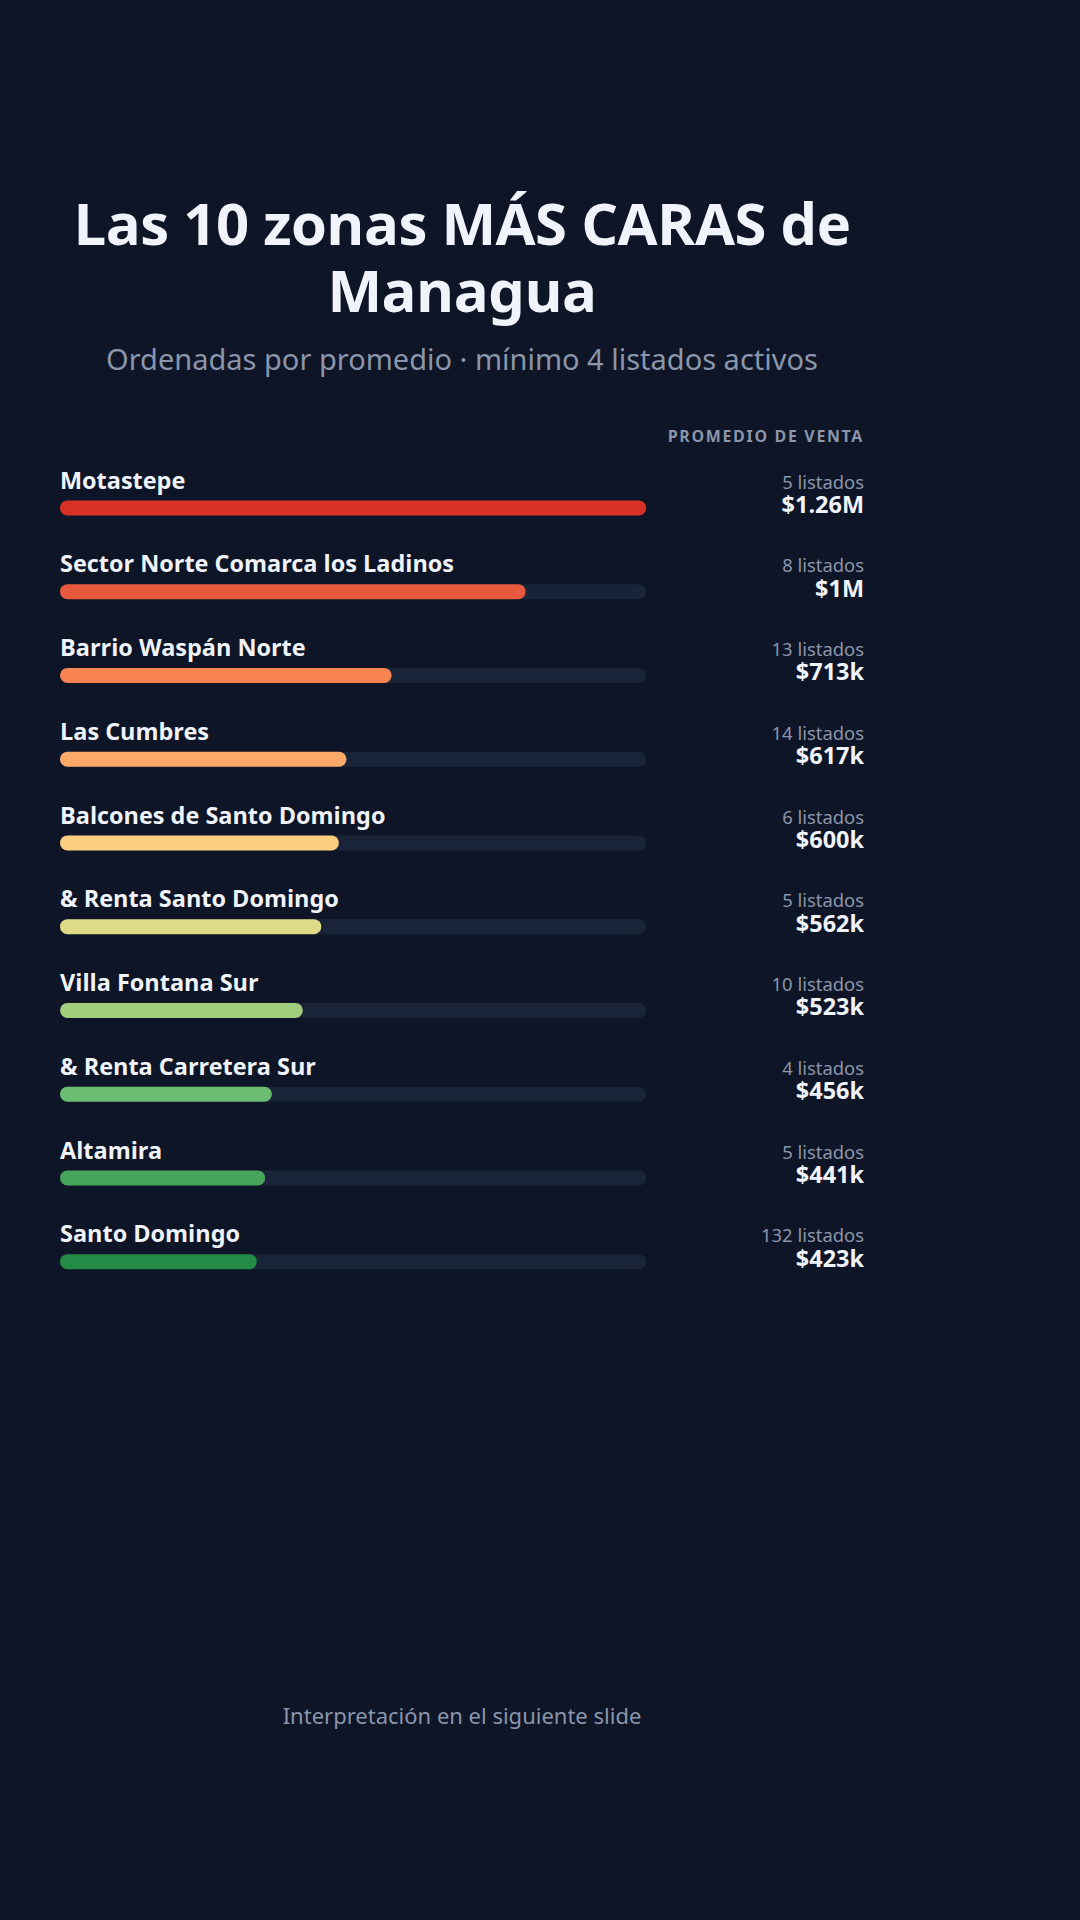
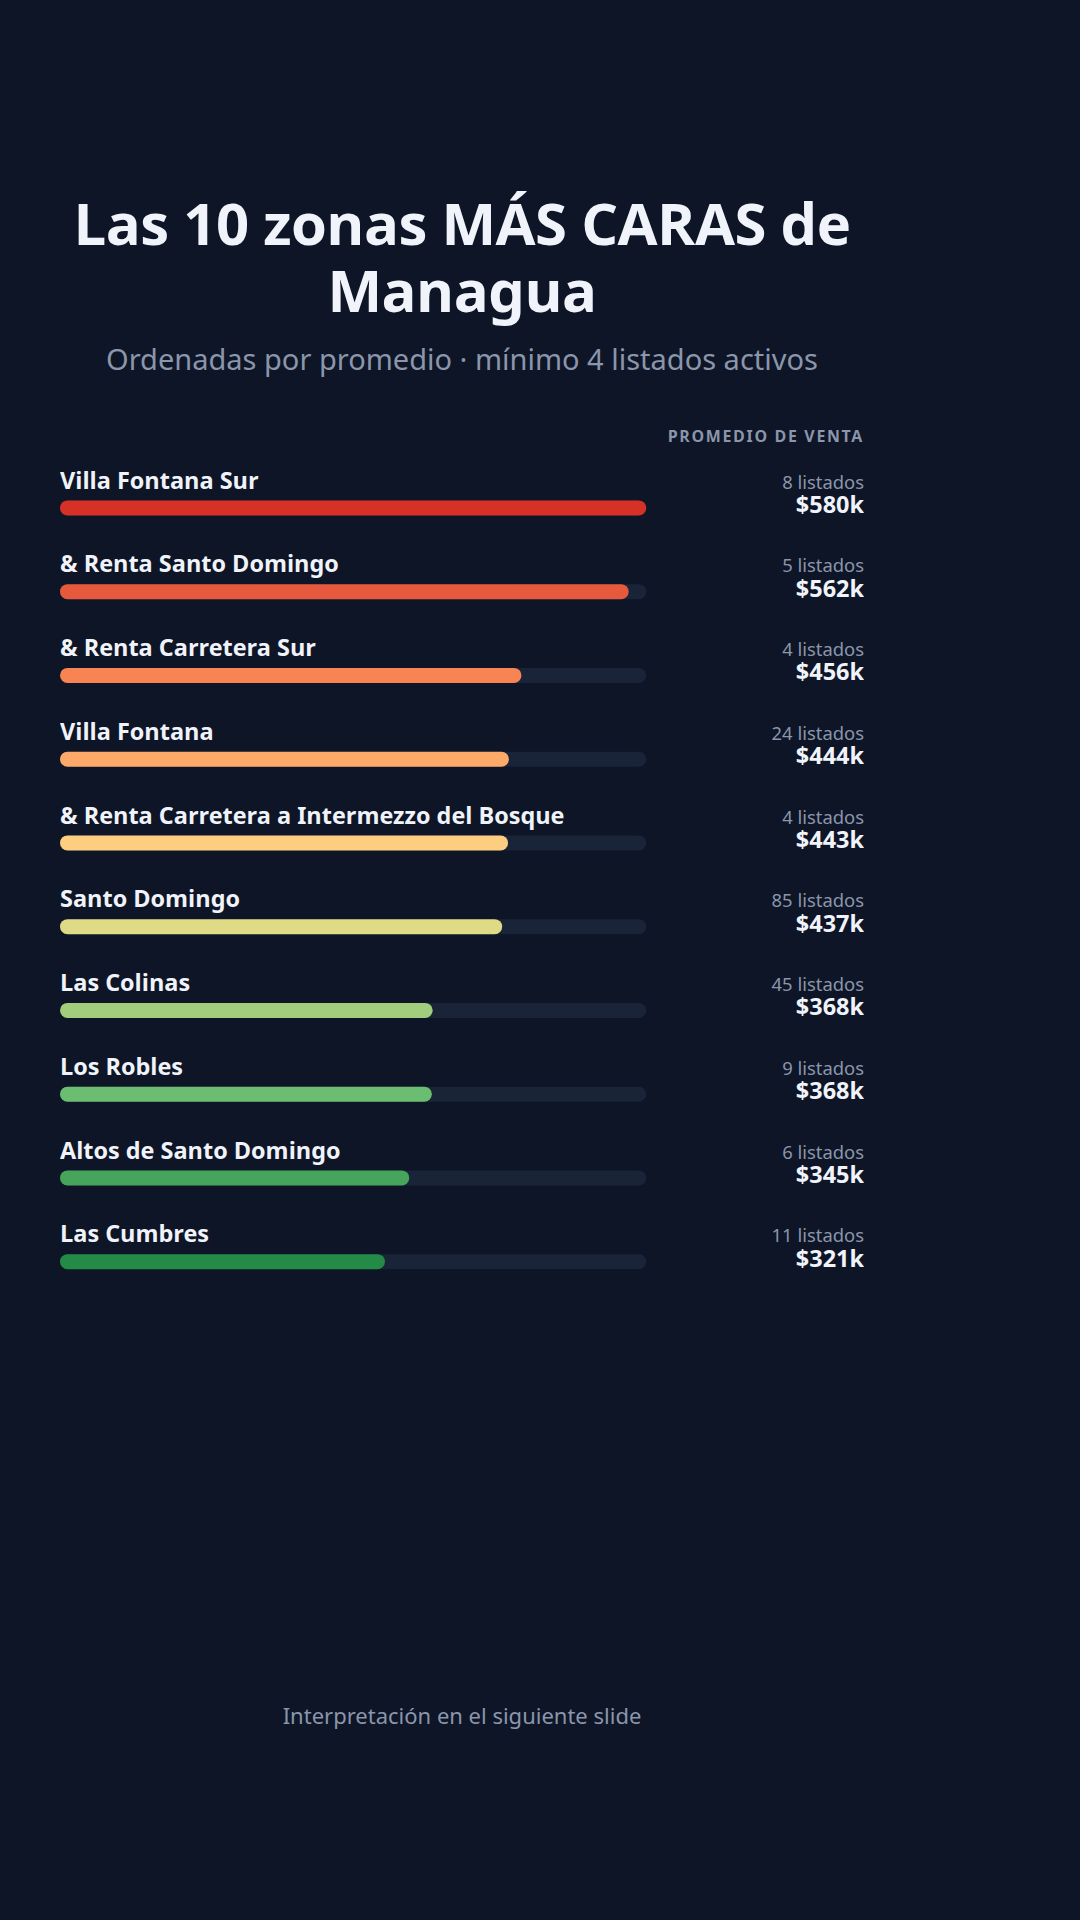
Regenera slides solo con casas (868 únicas) vía clasificador compartido; metodología actualizada

diff --git a/generar_datos.py b/generar_datos.py
@@ -7,7 +7,6 @@ import csv
 import datetime
 import json
 import os
-import re
 import shutil
 import statistics
 import sys
@@ -16,67 +15,10 @@ REPO = os.path.dirname(os.path.abspath(__file__))
 ANALISIS = "/home/devni/analisis bienes raices"
 sys.path.insert(0, ANALISIS)
 
+from clasificador_casas import kw_es_casa, qc_es_casa, mb_es_casa, sv_es_casa
+
 MANAGUA_OK = {"managua", "ciudad sandino", "ticuantepe"}
 BBOX = {"s": 11.98, "n": 12.26, "o": -86.48, "e": -86.10}
-
-# --- clasificador de casas (conservador) ---
-# KW: misma lógica validada de clasificar_casas.py (pipeline local)
-KW_AUTO_CASA = {"SINGLE FAMILY DETACHED", "SINGLE FAMILY ATTACHED", "TOWNHOUSE", "DUPLEX"}
-KW_AUTO_NO = {"APARTMENT", "OFFICE", "RETAIL", "WAREHOUSE", "INDUSTRIAL", "HOTEL MOTEL",
-              "HOTEL-MOTEL", "OWN YOUR OWN", "STOCK COOPERATIVE", "DEEDED PARKING", "CABIN"}
-KW_POS_FUERTE = [r"\bcasas?\b", r"\bvivienda\b", r"\bresidencia\s", r"🏡", r"\bplanta alta\b",
-                 r"\bdos plantas\b", r"\bun nivel\b", r"\bdos niveles\b"]
-KW_POS_HAB = [r"\b\d+\s*(habitaciones|dormitorios|recamaras|recámaras)\b", r"\bhabitaciones\b",
-              r"\bdormitorios\b", r"\bclosets?\b", r"\bsala[- ]comedor\b"]
-KW_NEG = [r"\bterrenos?\b", r"\blotes?\b", r"\bvara[s]?\b", r"\bv²\b", r"\bfinca\b", r"\bbodega",
-          r"\blocal comercial\b", r"\bapartamentos?\b", r"\bproyecto\b", r"para construir",
-          r"\bedificios?\b"]
-
-NEG_TEXTO_RE = re.compile(
-    r"\bterrenos?\b|\blotes?\b|\bvara[s]?\b|\bfinca\b|\bbodega|\blocal comercial\b|"
-    r"\bedificios?\b|\bproyecto\b|para construir|\boficinas?\b", re.I)
-CASA_TEXTO_RE = re.compile(r"\bcasas?\b", re.I)
-
-
-def casa_por_texto(*textos):
-    """Casa si menciona 'casa' como sujeto del anuncio (las palabras no habitacionales
-    solo descalifican cuando aparecen ANTES de 'casa': 'terreno con casa' no es casa,
-    'casa con terreno amplio' sí lo es)."""
-    t = " ".join(x or "" for x in textos)
-    m = CASA_TEXTO_RE.search(t)
-    if not m:
-        return False
-    return not NEG_TEXTO_RE.search(t[:m.start()])
-
-
-def kw_es_casa(r):
-    t = (r.get("tipo_propiedad") or "").upper()
-    if t in KW_AUTO_CASA:
-        return True
-    if t in KW_AUTO_NO:
-        return False
-    texto = f"{r.get('descripcion') or ''} {r.get('direccion') or ''}".lower()
-    pos = sum(len(re.findall(p, texto)) for p in KW_POS_FUERTE) + 0.5 * sum(
-        len(re.findall(p, texto)) for p in KW_POS_HAB)
-    neg = sum(len(re.findall(p, texto)) for p in KW_NEG)
-    if re.search(r"\bconstrucc[ií]on\b", texto) and re.search(r"\bcasas?\b", texto):
-        pos += 1
-    return pos >= 2 and pos > neg
-
-
-def qc_es_casa(r):
-    return (r.get("tipo") or "").strip().lower() == "casa"
-
-
-def mb_es_casa(r):
-    t = (r.get("tipo") or "").strip().lower()
-    if t == "casa":
-        return True
-    return not t and casa_por_texto(r.get("titulo"))
-
-
-def sv_es_casa(r):
-    return casa_por_texto(r.get("titulo"), r.get("slug"))
 
 
 def _f(x):
